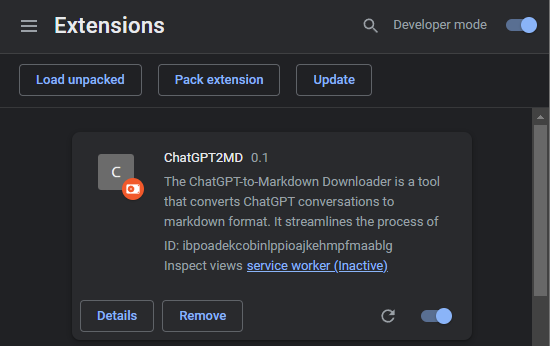
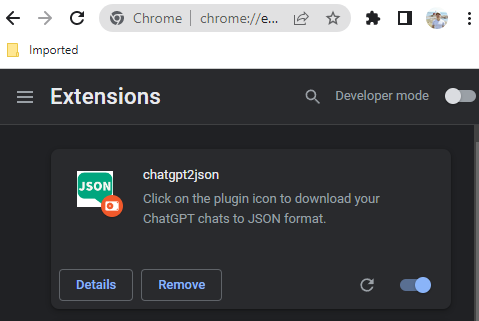
modified readme

diff --git a/docs/README.md b/docs/README.md
@@ -1,15 +1,11 @@
 # README
-The ChatGPT-to-Markdown Downloader is a tool that converts ChatGPT conversations to markdown format. It streamlines the process of formatting ChatGPT conversations, making it easy to download, store and collaborate on the resulting markdown files. This tool is designed to simplify your workflow, making it perfect for developers, content creators and anyone looking to stay organized.
+The ChatGPT-to-JSON Downloader is a tool that converts ChatGPT conversations to JSON format. It streamlines the process of formatting ChatGPT conversations, making it easy to download, store and collaborate on the resulting JSON files. This tool is designed to simplify your workflow, making it perfect for developers, content creators and anyone looking to stay organized.
 
 # Dev Preview
 1. clone or download this repo
 2. navigate to [chrome://extensions/](chrome://extensions/)
 3. Toggle developer mode in the top right corner
 4. load this extension by clicking 'Load Unpack'
- 
 
-# Usage
-![img_1.png](img1.png)
 
-click the ChatGPT2MD icon to download your current chat thread. 
-![img2.png](img2.png)
+![img.png](img.png)
